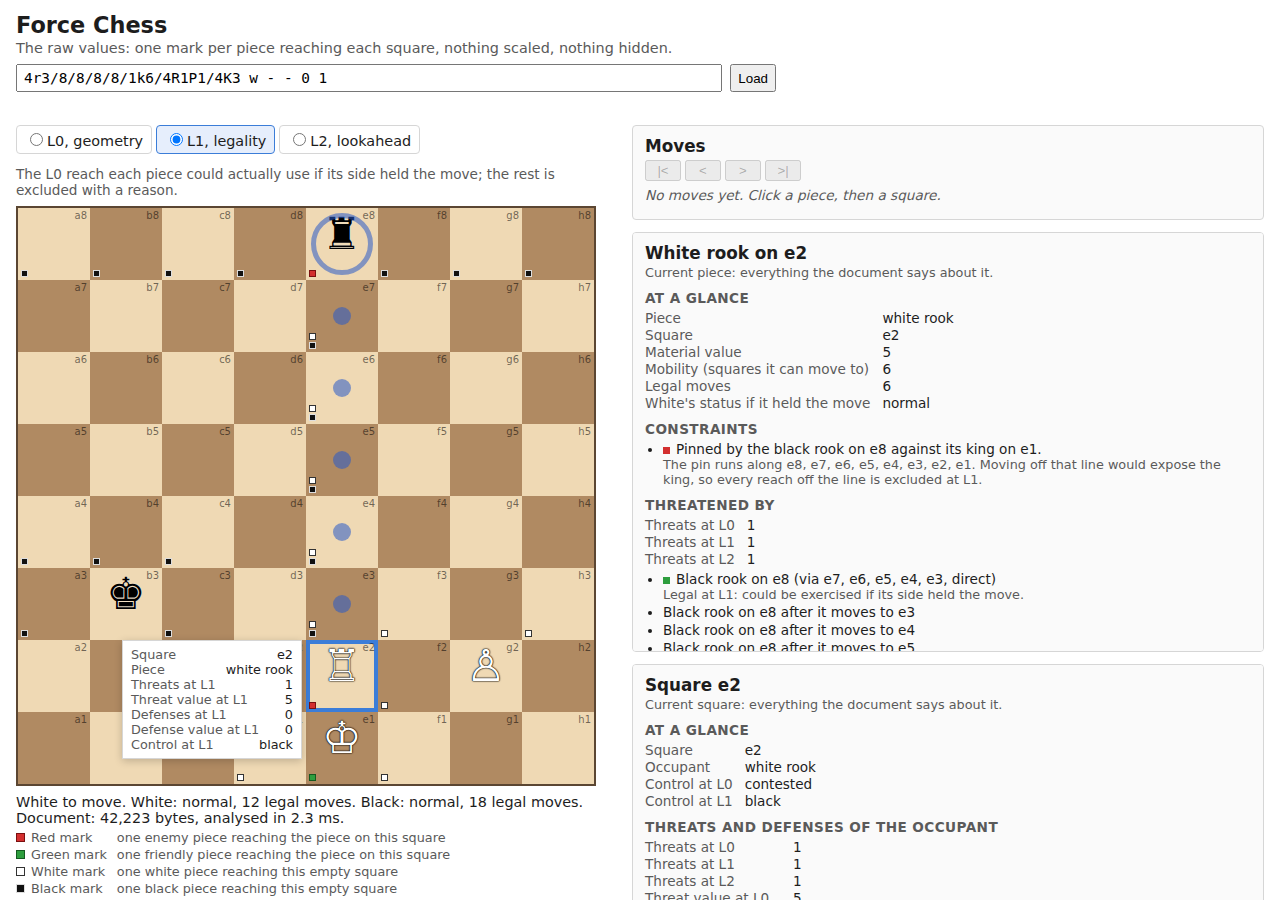
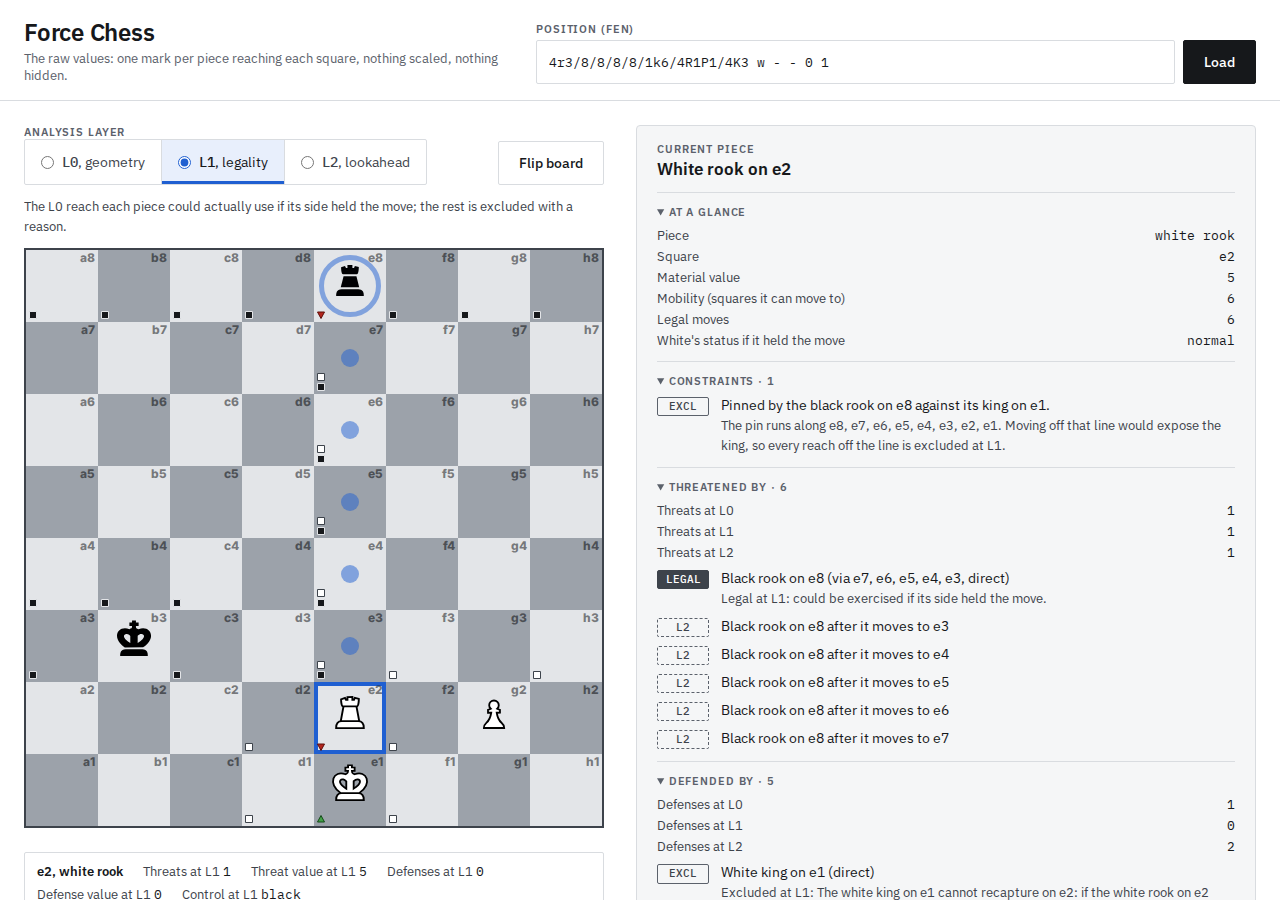
Test the mark shapes in chromium and regenerate the screenshots
A new spec reads the drawn polygons on the pin-along-file position at
L1: the threat on the knight points down, the defence of the king points
up, side reach is a square, every mark is 8px, the legend draws the same
shapes, and a seventh mark in a row starts a new line. The three
screenshots are rewritten against the Instrument shell and were read one
by one. CLAUDE.md says to look at the raw projection in a browser after
a visual change, not only at the tests, and the web README names the new
spec. The move list's placeholder is set in the sans, not the monospace.

diff --git a/web/e2e/marks.spec.ts b/web/e2e/marks.spec.ts
@@ -1,0 +1,98 @@
+// The marks have a shape as well as a colour (concept 7.1): on the
+// pin-along-file position at L1 the threat on the knight is a triangle
+// pointing down, the defence of the king a triangle pointing up, and each
+// side's reach onto an empty square a plain square. The shapes are read
+// from the drawn polygons, not from a colour or a class name.
+
+import { expect, test, type Page } from "@playwright/test";
+
+// contract/fixtures/snapshots/pin-along-file.json: the white knight on e3 is pinned by the rook on e8.
+const PIN_ALONG_FILE = "4r1k1/8/8/3P4/8/4N3/8/4K3 w - - 0 1";
+
+interface Polygon {
+  readonly points: readonly { x: number; y: number }[];
+}
+
+function parsePoints(points: string | null): Polygon {
+  return {
+    points: (points ?? "")
+      .trim()
+      .split(/\s+/)
+      .map((pair) => pair.split(",").map(Number))
+      .map(([x, y]) => ({ x: x ?? Number.NaN, y: y ?? Number.NaN })),
+  };
+}
+
+/** The polygons of the marks on one square, in the row they belong to. */
+async function polygons(page: Page, square: string, meaning: string): Promise<Polygon[]> {
+  const drawn = await page
+    .locator(`[data-square="${square}"] [data-tally="${meaning}"] .mark polygon`)
+    .evaluateAll((nodes) => nodes.map((node) => node.getAttribute("points")));
+  return drawn.map(parsePoints);
+}
+
+/** "down" when the lone vertex of a triangle is below the other two, "up" when it is above, "square" for four corners. */
+function shape(polygon: Polygon): "down" | "up" | "square" | "other" {
+  const points = polygon.points;
+  if (points.length === 4) return "square";
+  if (points.length !== 3) return "other";
+  const ys = points.map((p) => p.y);
+  const lone = ys.find((y) => ys.filter((other) => other === y).length === 1);
+  if (lone === undefined) return "other";
+  const rest = ys.filter((y) => y !== lone);
+  return lone > Math.max(...rest) ? "down" : lone < Math.min(...rest) ? "up" : "other";
+}
+
+async function ready(page: Page): Promise<void> {
+  await page.goto("/");
+  await expect(page.locator("html[data-ready='true']")).toBeAttached({ timeout: 20_000 });
+}
+
+test("threats point down, defences point up and side reach is square, one mark per unit", async ({ page }) => {
+  await ready(page);
+  await page.fill("#fen-input", PIN_ALONG_FILE);
+  await page.click("#load-fen");
+  await expect(page.locator("[data-piece]")).toHaveCount(5);
+  await page.getByLabel("L1, legality").check();
+
+  // The rook on e8 threatens the pinned knight: one threat, nothing defends it.
+  const threats = await polygons(page, "e3", "threat");
+  expect(threats.map(shape)).toEqual(["down"]);
+  expect(await polygons(page, "e3", "defence")).toEqual([]);
+  // The rook defends its king on g8 along the back rank: one defence.
+  const defences = await polygons(page, "g8", "defence");
+  expect(defences.map(shape)).toEqual(["up"]);
+  // e6 is empty and reached by the white knight and the black rook: one square mark each.
+  const white = await polygons(page, "e6", "white");
+  expect(white.map(shape)).toEqual(["square"]);
+  expect((await polygons(page, "e6", "black")).map(shape)).toEqual(["square"]);
+  // f8: two black pieces reach it, two square marks, and no white one.
+  expect((await polygons(page, "f8", "black")).map(shape)).toEqual(["square", "square"]);
+  expect(await polygons(page, "f8", "white")).toEqual([]);
+  // The three shapes are three different drawings, and every mark is the same size.
+  const drawings = new Set([threats[0], defences[0], white[0]].map((p) => JSON.stringify(p?.points)));
+  expect(drawings.size).toBe(3);
+  const sizes = await page
+    .locator("#board .mark")
+    .evaluateAll((nodes) => [...new Set(nodes.map((n) => `${n.getBoundingClientRect().width}x${n.getBoundingClientRect().height}`))]);
+  expect(sizes).toEqual(["8x8"]);
+
+  // The legend draws the same three shapes it explains, in the order of the rows.
+  const legend = await page.locator("#legend .mark polygon").evaluateAll((nodes) => nodes.map((n) => n.getAttribute("points")));
+  expect(legend.map((points) => shape(parsePoints(points)))).toEqual(["down", "up", "square", "square"]);
+});
+
+test("a seventh mark in a row starts a new line under the first six", async ({ page }) => {
+  await ready(page);
+  // Eight white pieces reach the rook on d4 at L0: the queen on d1, the rooks on a4 and h4, the bishops on c3
+  // and e5, the knights on b3 and f3 and the pawn on e3. The count is read from the page; the wrap is what is asserted.
+  await page.fill("#fen-input", "6k1/8/8/4B3/R2R3R/1NB1PN2/8/3Q2K1 w - - 0 1");
+  await page.click("#load-fen");
+  await expect(page.locator("[data-piece]")).toHaveCount(11);
+  const marks = page.locator("[data-square='d4'] [data-tally='defence'] .mark");
+  const count = await marks.count();
+  expect(count).toBeGreaterThan(6);
+  const tops = await marks.evaluateAll((nodes) => nodes.map((n) => Math.round(n.getBoundingClientRect().top)));
+  expect(new Set(tops.slice(0, 6)).size).toBe(1);
+  expect(tops[6]).toBeGreaterThan(tops[0] ?? 0);
+});

diff --git a/web/src/shell/styles.css b/web/src/shell/styles.css
@@ -227,7 +227,7 @@ button:disabled { cursor: default; }
 #move-list .move { font: inherit; padding: var(--space-1) 6px; background: transparent; border: 1px solid transparent; border-radius: 2px; color: var(--text); }
 #move-list li.current .move { background: var(--selected-tint); border-color: var(--selected); }
 #move-list li.ahead .move { color: var(--muted); }
-#move-list .placeholder { margin: 0; }
+#move-list .placeholder { margin: 0; font-family: var(--font-sans); }
 #promotion:empty { display: none; }
 #promotion p { margin: 0 0 var(--space-2); font-size: var(--fs-body); }
 #promotion .choices { display: flex; flex-wrap: wrap; gap: var(--space-1); }

diff --git a/web/README.md b/web/README.md
@@ -16,7 +16,7 @@ The first projection is the raw-values projection (concept 7.1): red tallies for
 | `src/core/` | Loads the WebAssembly package from `core/wasm/pkg/` and wraps its three calls: analyse a FEN, apply a move, parse a game. The only module that knows the package exists. | Yes |
 | `src/shell/` | Renders scenes into the page and owns the state: board, layer selector, FEN and PGN inputs, panels, move list, keyboard navigation. | Yes |
 | `tests/` | Vitest: the game record against the game fixtures in `contract/fixtures/games/`, and the projections against the whole-board snapshots in `contract/fixtures/snapshots/`. | No |
-| `e2e/` | The Playwright smoke tests of the built site in chromium: `smoke.spec.ts` for the board, the FEN input and moves made by hand, `pgn.spec.ts` for an imported game, `flip.spec.ts` for the board seen from black's side. They also take the screenshots in `docs/screenshots/`. | - |
+| `e2e/` | The Playwright smoke tests of the built site in chromium: `smoke.spec.ts` for the board, the FEN input and moves made by hand, `pgn.spec.ts` for an imported game, `flip.spec.ts` for the board seen from black's side, `marks.spec.ts` for the shapes of the marks and the wrapping of a row. They also take the screenshots in `docs/screenshots/`. | - |
 
 `tsconfig.pure.json` typechecks `src/contract`, `src/record` and `src/projections` without the DOM library, so an import from the DOM there fails to compile.
 

diff --git a/CLAUDE.md b/CLAUDE.md
@@ -28,6 +28,7 @@ Browser-based chess analysis board whose product is a logical "force state": for
 - Fixtures are behaviour: targeted assertions pin down each rule; whole-board snapshots catch regressions. No test that asserts a constant equals itself, a CSS class name, or that a component renders.
 - Narrow commits, one logical change each. No emojis in code or commit messages.
 - Before claiming work complete: the fixture corpus passes, the build succeeds, and for UI changes the raw projection has been looked at in a browser.
+- After a visual change, look at the raw projection in a browser, not only the tests: open the dev server or the preview, check the starting position, the pinned-rook position and an imported game at each layer, and read the regenerated screenshots. Tests pin counts and shapes; they do not see that a mark sits under a piece or a panel overflows.
 
 ## Toolchain
 
